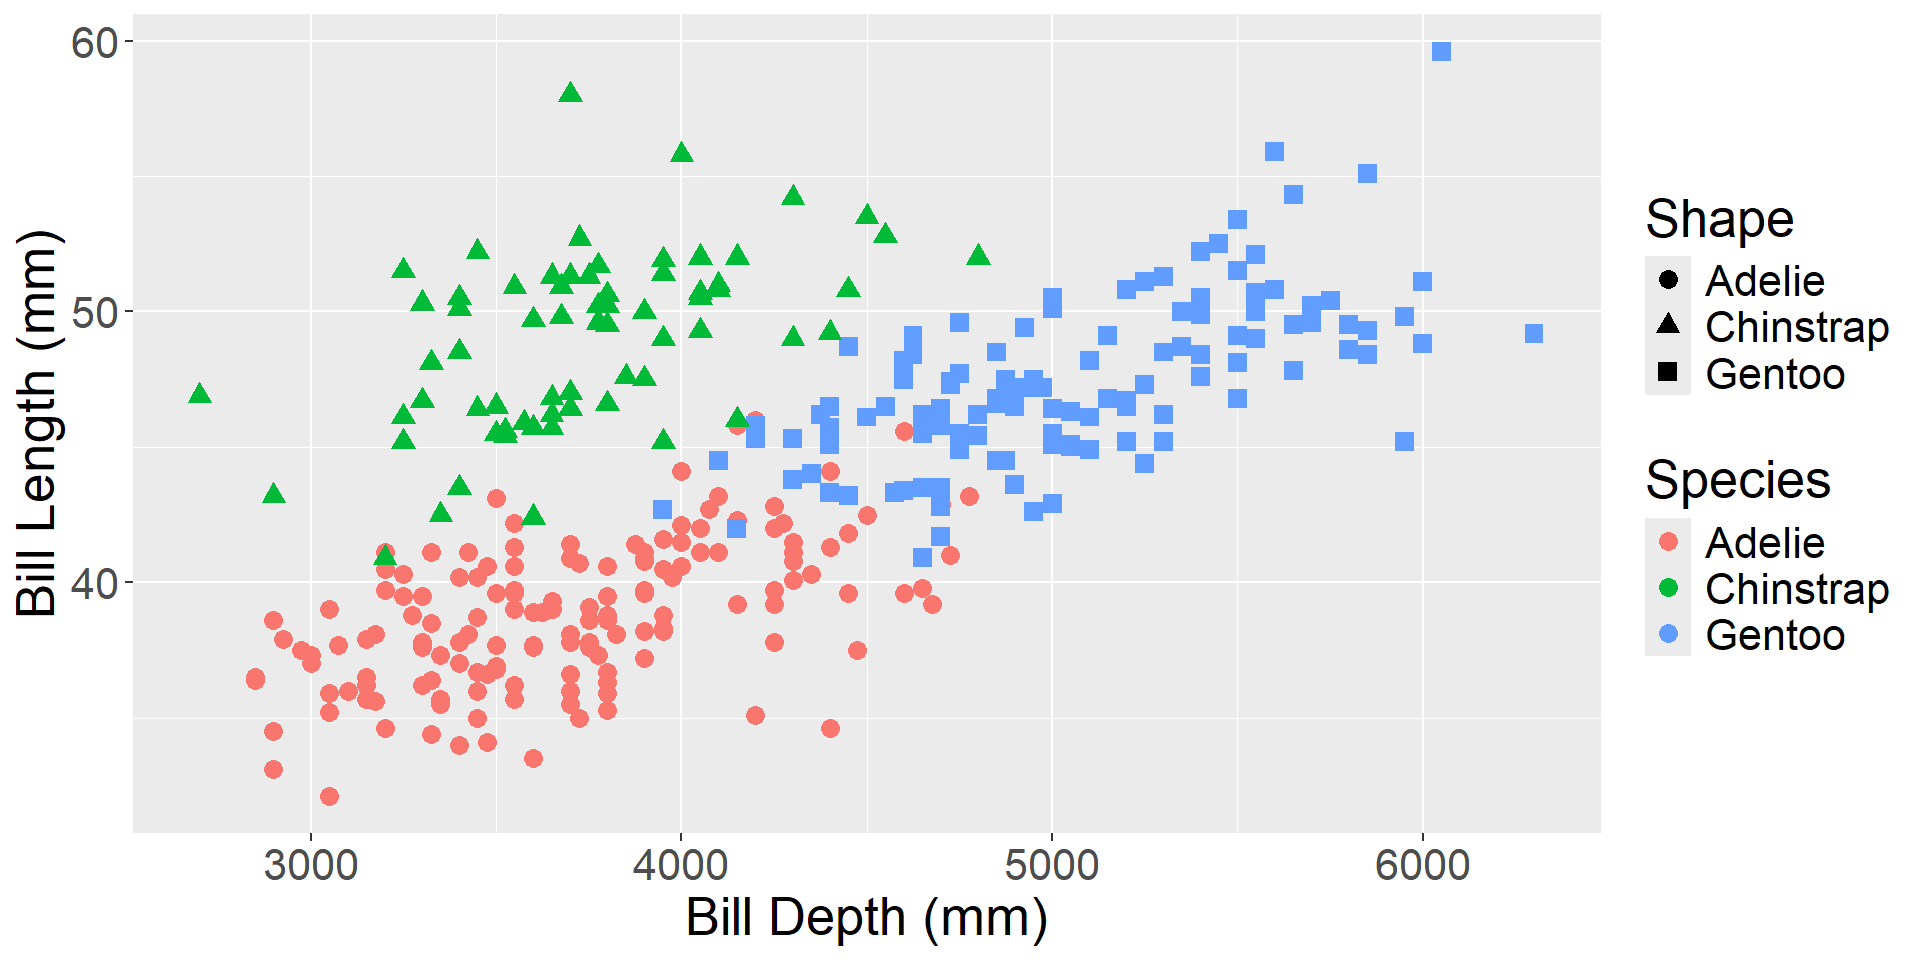
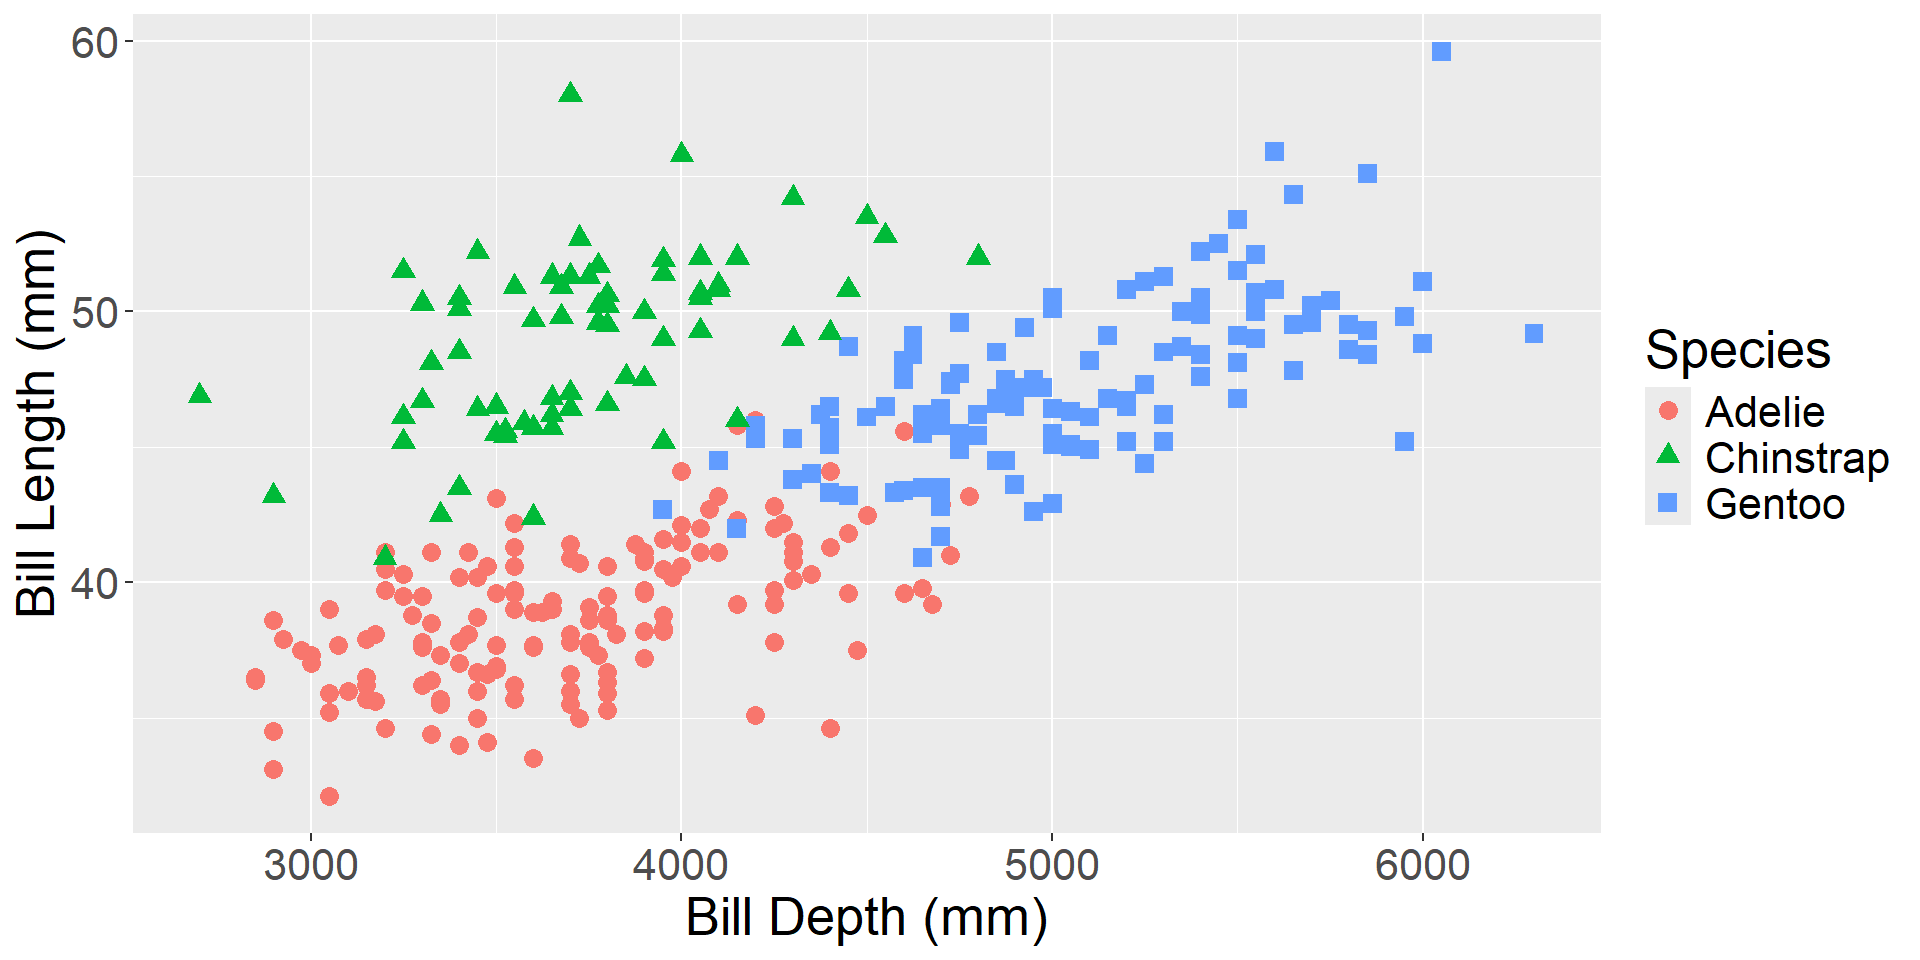
Fixed typos for lec4a

Changed region(s): [[0.8438, 0.2812, 1.0, 0.6875], [0.8438, 0.2188, 0.9375, 0.25]]

diff --git a/week-04/lec-04-data-viz-improvements.html b/week-04/lec-04-data-viz-improvements.html
@@ -496,7 +496,7 @@ Medina - CSU Channel Islands
 <span id="cb10-11"><a href="" aria-label="11"></a>    <span class="at">x =</span> <span class="st">"Bill Depth (mm)"</span>, </span>
 <span id="cb10-12"><a href="" aria-label="12"></a>    <span class="at">y =</span> <span class="st">"Bill Length (mm)"</span>,</span>
 <span id="cb10-13"><a href="" aria-label="13"></a>    <span class="at">color =</span> <span class="st">"Species"</span>,</span>
-<span id="cb10-14"><a href="" aria-label="14"></a>    <span class="at">shape =</span> <span class="st">"Shape"</span></span>
+<span id="cb10-14"><a href="" aria-label="14"></a>    <span class="at">shape =</span> <span class="st">"Species"</span></span>
 <span id="cb10-15"><a href="" aria-label="15"></a>  ) <span class="sc">+</span></span>
 <span id="cb10-16"><a href="" aria-label="16"></a>  <span class="fu">theme</span>(<span class="at">text =</span> <span class="fu">element_text</span>(<span class="at">size =</span> <span class="dv">20</span>)) <span class="sc">+</span></span>
 <span id="cb10-17"><a href="" aria-label="17"></a>  <span class="fu">geom_point</span>(<span class="at">size =</span> <span class="dv">3</span>)</span></code></pre></div><button title="Copy to Clipboard" class="code-copy-button"><i class="bi"></i></button></div>
@@ -640,7 +640,7 @@ Medina - CSU Channel Islands
 </section>
 <section id="what-couldshould-i-write-as-alternative-text" class="slide level2">
 <h2>What could/should I write as alternative text?</h2>
-<p>Alt text for data visualizations should provide a breif description of the image (e.g., plot type, variables, range of data) <strong>and</strong> insight (e.g., trends, comparisons, …)</p>
+<p>Alt text for data visualizations should provide a brief description of the image (e.g., plot type, variables, range of data) <strong>and</strong> insight (e.g., trends, comparisons, …)</p>
 <p>Guides:</p>
 <ul>
 <li><p><a href="https://medium.com/nightingale/writing-alt-text-for-data-visualization-2a218ef43f81">Cesal, 2020</a></p></li>
